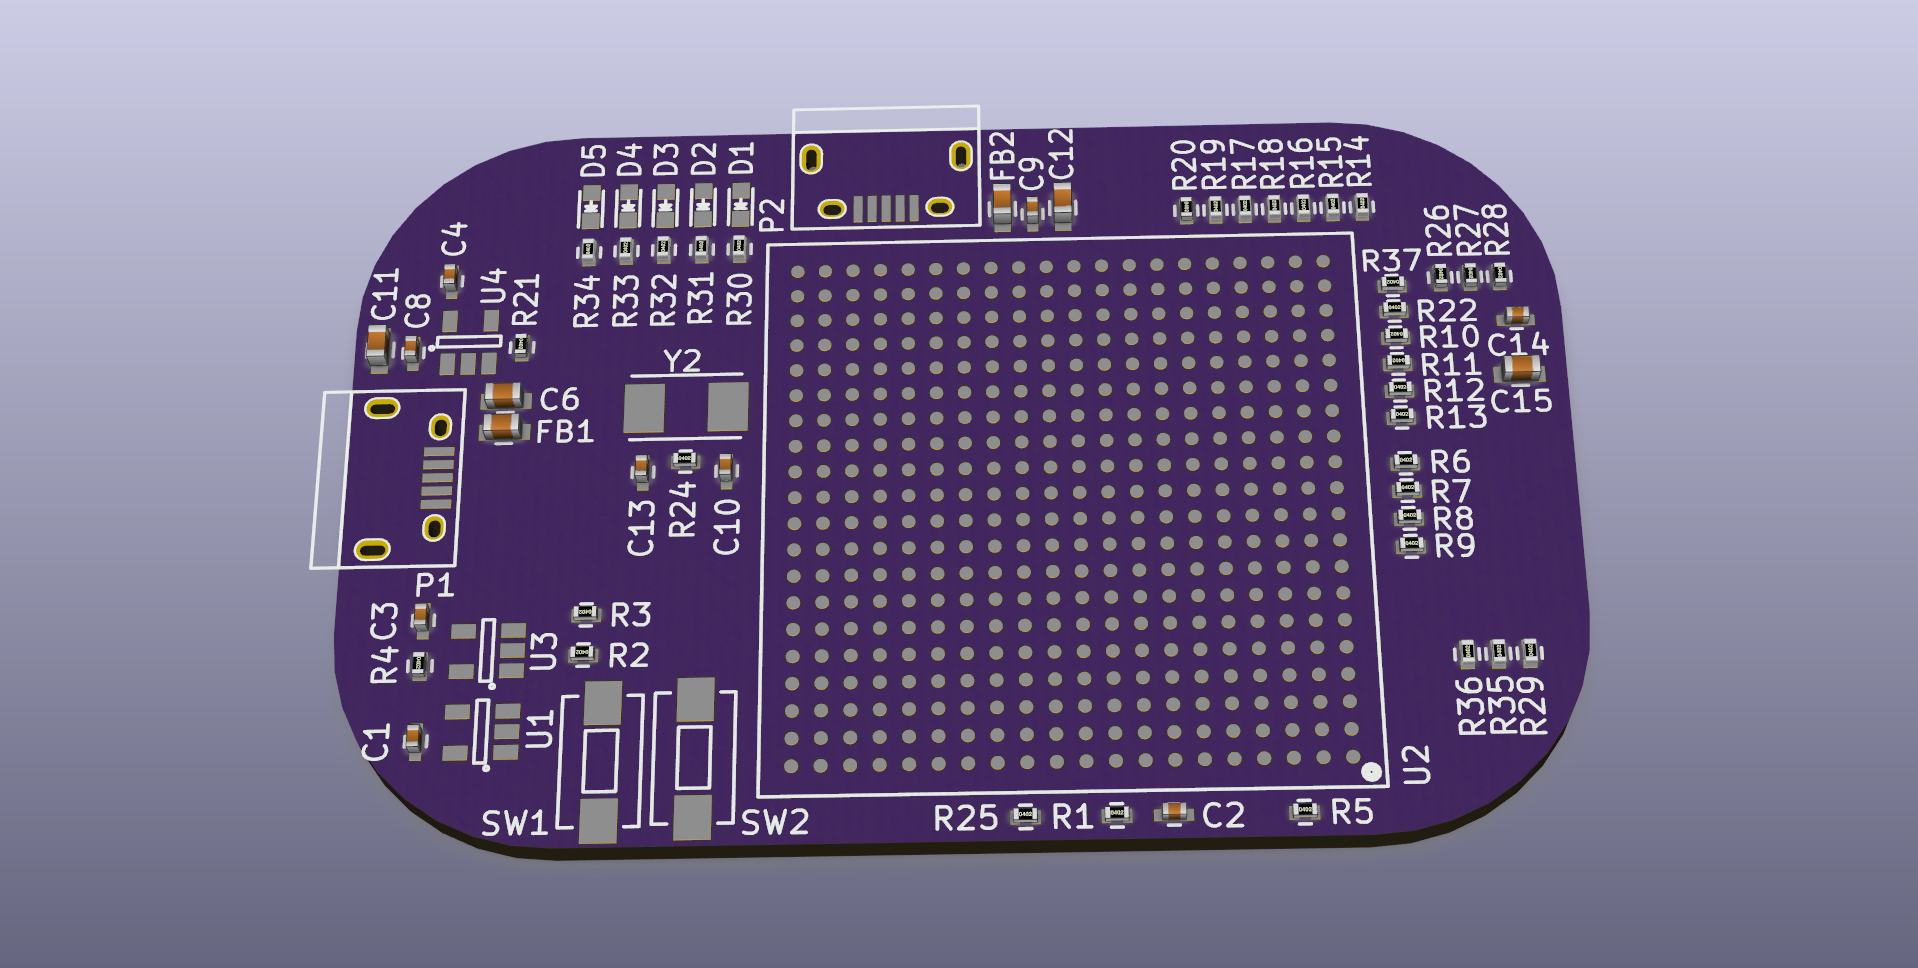
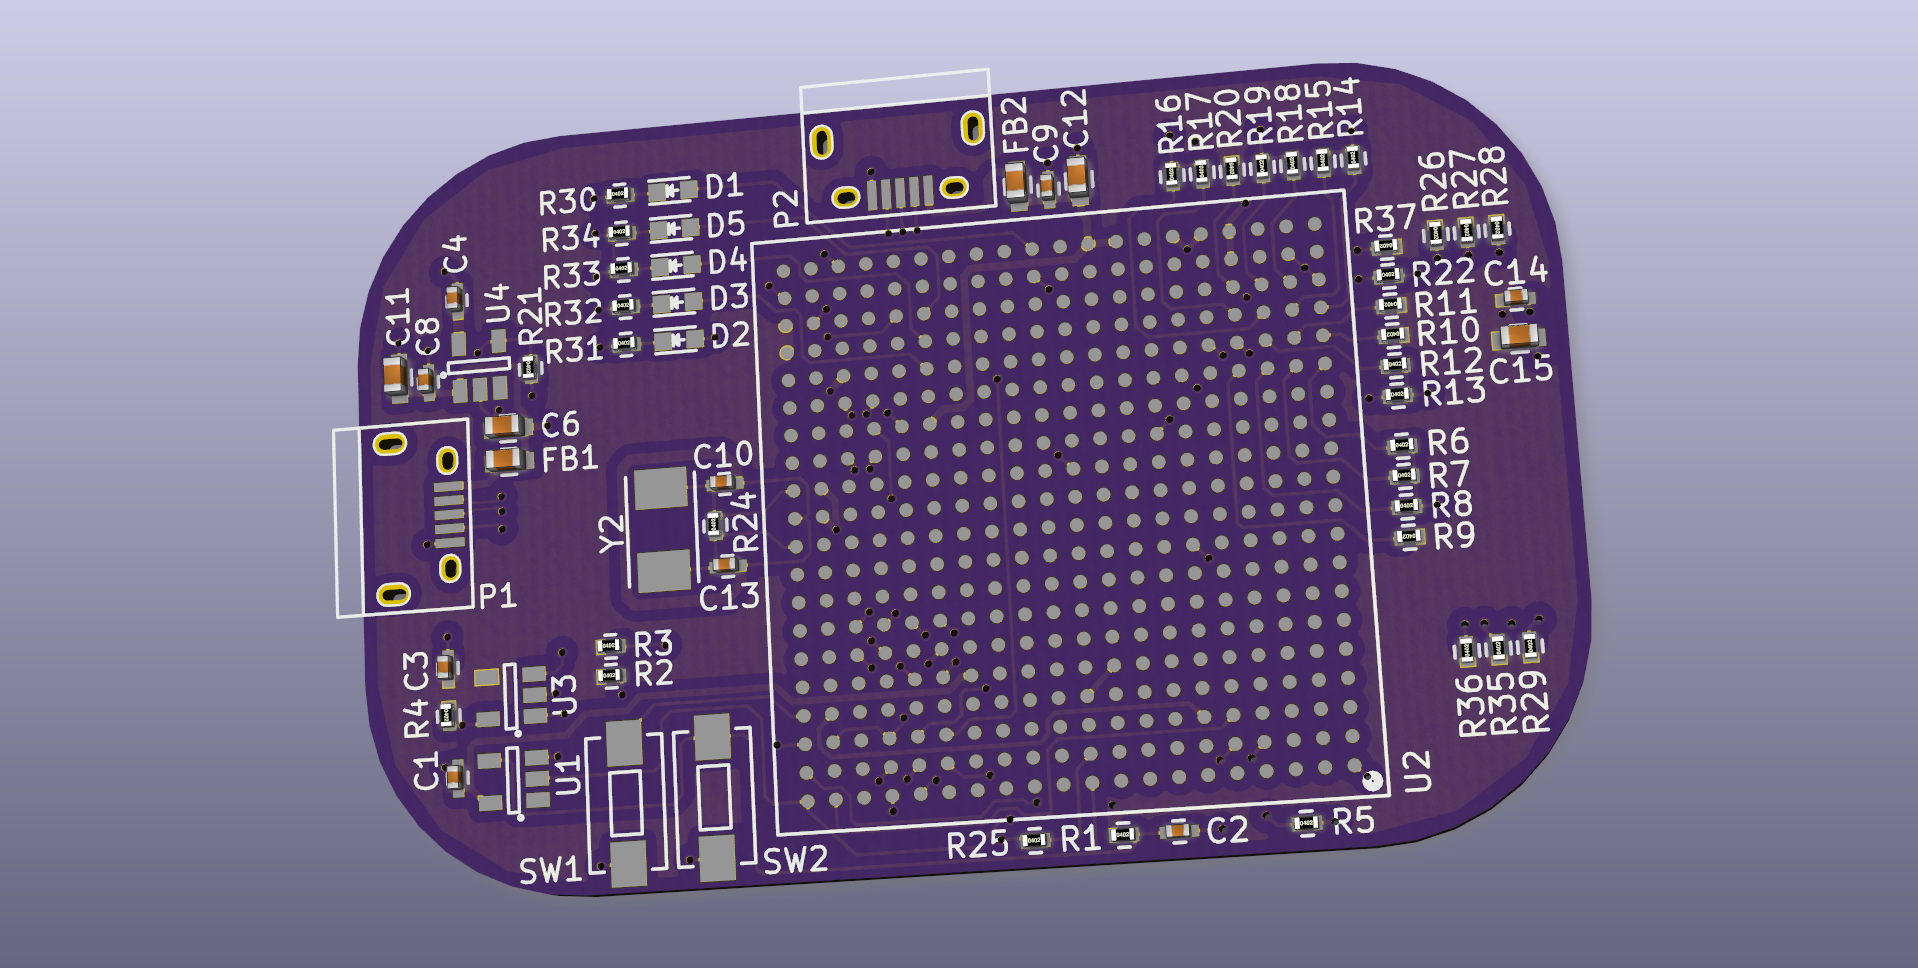
Update plots and README

Changed region(s): [[0.1538, 0.062, 0.8306, 0.9298], [0.7383, 0.6508, 0.8306, 0.7748], [0.769, 0.8058, 0.7998, 0.8368]]

diff --git a/README.md b/README.md
@@ -1,2 +1,3 @@
 # pocketbone-kicad
 ![alt tag](https://raw.githubusercontent.com/mwelling/pocketbone-kicad/master/pocketbone-kicad.png)
+![alt tag](https://raw.githubusercontent.com/mwelling/pocketbone-kicad/master/pocketbone-kicad-back.png)
